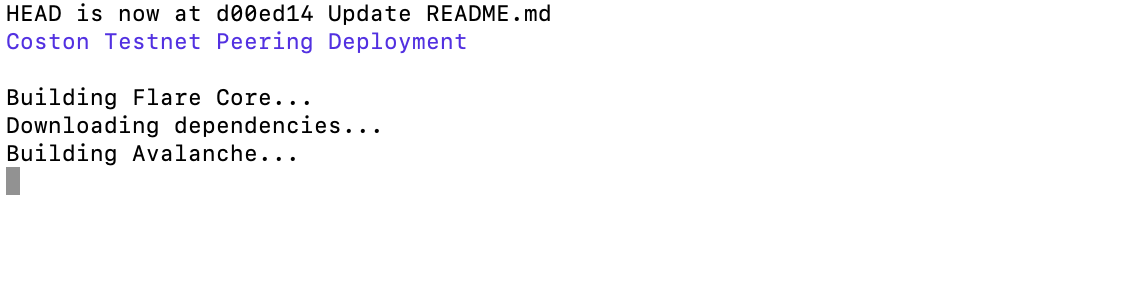
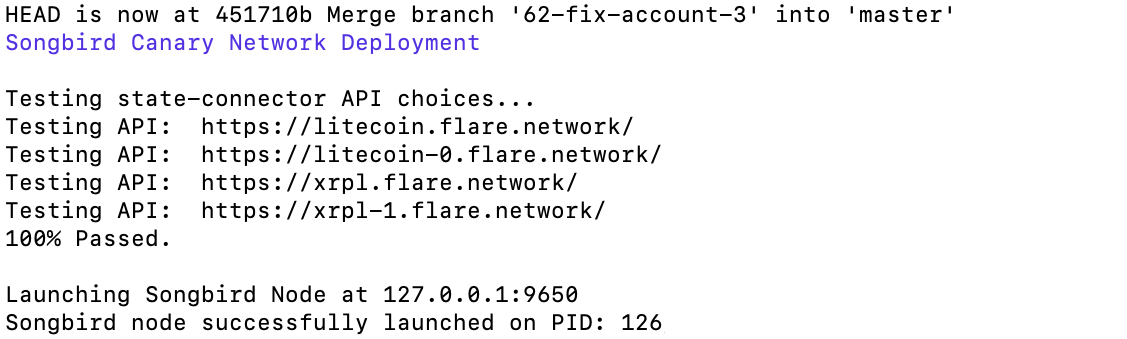
2021-09-20 AC: Updates the documentation for the Canary (Songbird) version.

diff --git a/docs/basic_usage.rst b/docs/basic_usage.rst
@@ -21,16 +21,16 @@ Flare Linux Live mode will be available soon.
 Flare Linux Test Mode
 ---------------------
 
-When running Flare Linux in test mode, you can run the node on the Coston network (test network), or
-on your local network only.
+When running Flare Linux in test mode, you can run the node on the Canary Network (Songbird),
+the Coston network (test network), or on your local network only.
 
-Coston Network
+Canary Network
 --------------
 
 Open a Bash or a ZSH terminal (Mac or Linux), or a Powershell CLI (Windows), and enter the following
-command in the terminal, and wait for the server to finish bootstrapping (approx. 5 minutes)::
+command in the terminal::
 
-    $ docker run -it --rm -p 9650:9650 --name my_flare_server asclinux/flarelinux:1.0.0-rc1 flare --coston
+    $ docker run -it --rm -p 9650:9650 --name my_flare_server asclinux/flarelinux:1.0.0-rc2 flare --songbird
 
 You will then get a command-line interface similar to this one:
 
@@ -38,18 +38,38 @@ You will then get a command-line interface similar to this one:
 
 You can run the server in detached mode by adding the 'd' option, like so::
 
-    $ docker run -dit --rm -p 9650:9650 --name my_flare_server asclinux/flarelinux:1.0.0-rc1 flare --coston
+    $ docker run -dit --rm -p 9650:9650 --name my_flare_server asclinux/flarelinux:1.0.0-rc2 flare --songbird
 
-You can change the version of the Flare server node, by adding a Git commit hash to end of the command, like so::
+You can change the version of the Flare server node, by adding a Git commit hash to the end of the command, like so::
 
-    $ docker run -it --rm -p 9650:9650 --name my_flare_server asclinux/flarelinux:1.0.0-rc1 flare --coston e9ca17eace0
+    $ docker run -it --rm -p 9650:9650 --name my_flare_server asclinux/flarelinux:1.0.0-rc2 flare --songbird a1f141b4562
+
+Coston Network
+--------------
+
+Open a Bash or a ZSH terminal (Mac or Linux), or a Powershell CLI (Windows), and enter the following
+command in the terminal, and wait for the server to finish bootstrapping (approx. 5 minutes)::
+
+    $ docker run -it --rm -p 9650:9650 --name my_flare_server asclinux/flarelinux:1.0.0-rc2 flare --coston
+
+You will then get a command-line interface similar to this one:
+
+.. image:: /images/basic_usage02.png
+
+You can run the server in detached mode by adding the 'd' option, like so::
+
+    $ docker run -dit --rm -p 9650:9650 --name my_flare_server asclinux/flarelinux:1.0.0-rc2 flare --coston
+
+You can change the version of the Flare server node, by adding a Git commit hash to the end of the command, like so::
+
+    $ docker run -it --rm -p 9650:9650 --name my_flare_server asclinux/flarelinux:1.0.0-rc2 flare --coston e9ca17eace0
 
 Local Network
 --------------
 
 If you prefer, you can run a local Flare node, by running the following command instead::
 
-    $ docker run -it --rm -p 9650:9650 --name my_flare_server asclinux/flarelinux:1.0.0-rc1 flare --local
+    $ docker run -it --rm -p 9650:9650 --name my_flare_server asclinux/flarelinux:1.0.0-rc2 flare --local
 
 ---------------------------
 Start testing the Flare API
@@ -58,23 +78,6 @@ Start testing the Flare API
 Use `Postman <https://www.postman.com/>`_ to start querying your server's API: `VIDEO TUTORIAL <https://youtu.be/NPvu6xJ7tsk?t=2447>`_,
 
 .. note:: Make sure the "P" and "C" chains are bootstrapped, before making other queries!
-
--------------------------------
-Validate a real XRP transaction
--------------------------------
-
-Open ANOTHER Bash or a ZSH terminal (Mac or Linux), or ANOTHER Powershell CLI (Windows), and enter
-the following command::
-
-    $ docker exec -it my_flare_server /bin/bash
-
-Once you are inside the Docker container, enter these commands to validate an XRP transaction::
-
-    $ cd /root/flare/client
-    $ $( ./bridge.sh xrp ) &
-    $ node --no-warnings prove xrp FFB44382D074CB37B63AC9D3EB2D829C1D1FE4D54DC1A0BCC1D23BAE18D53272 2>/dev/null
-
-After you are done testing, you can exit the container by typing ``exit``.
 
 To stop the Flare server, please enter the following command::
 

diff --git a/docs/whats_new.rst b/docs/whats_new.rst
@@ -3,7 +3,7 @@
 What's New in Version 1.0
 ===========================
 
-New Since Version 1.0.0 (Jul 26, 2021)
+New Since Version 1.0.0 (Sep 27, 2021)
 --------------------------------------
 
 * New features:
